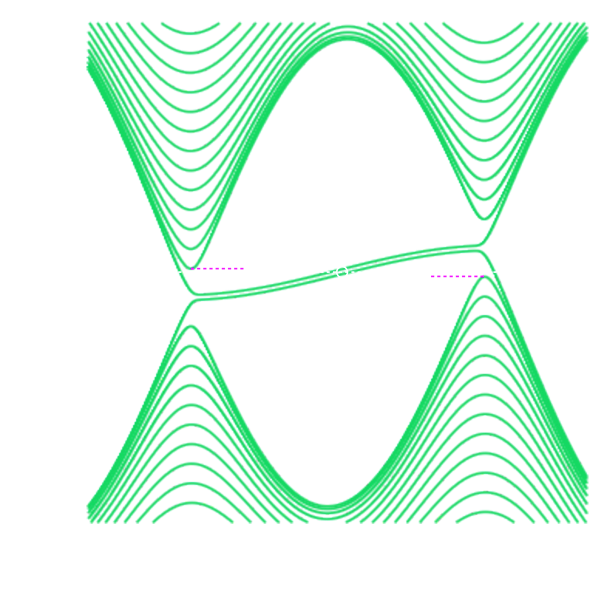
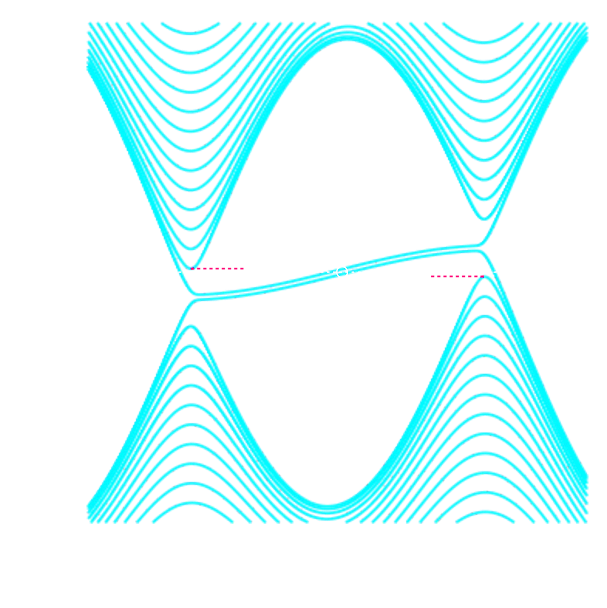
changes style, fixes typos

Changed region(s): [[0.1186, 0.0312, 0.9786, 0.875]]

diff --git a/research.html b/research.html
@@ -21,28 +21,26 @@
 
     <div class="row">    
         <div class="column"> 
-            <div class="picture-column" style="background-color: black;">
-                <img src="Images/Weyl.png"/>
-            </div>
-        </div>          
-        <div class="column">
-            <div class="text-column">
+            <div class="text-column" style='background-color: rgb(0, 59, 82);'>
                 <h2 style="font-size: 32px;">What is Weyl Semimetal?</h2>
                 <p class="column-text">
                     Weyl semimetal is a crystal with specific cunducting properties
                     that originate from quantum interactions between electrons and crystal lattice.
                     Those interactions influence electrons that take part in conductivity
-                    to become massless elementary particales called Weyl fermions.
+                    to become massless quasiparticles - Weyl fermions.
                     Conductivity with such particles has number of benefits that 
                     allow for apllications in spintronics and future computing.
                 </p>
-            </div>  
+            </div>
+        </div>          
+        <div class="column">
+            <div class="picture-column" style="background-color: black; margin-top: 20px;">
+                <img src="Images/Weyl.png"/>
+            </div>
+              
         </div>
     </div>
-
-    <div style='padding: 3pt'>
-                
-    </div>
+   
     
     <div style="margin-top: 40pt;">
         <h2>My Research in Physics</h2>
@@ -99,7 +97,7 @@
             <li class="publ">(2019) Observation of quantum topological Hall effect in the Weyl semimetal candidate HgSe / A.T. Lonchakov, S.B. Bobin, V.V. Deryushkin, V.N. Neverov // Journal of Physics: Condensed Matter. V. 31. –  405706 P.</li>
             <li class="publ">(2019) Nontrivial topology of bulk HgSe from the study of cyclotron effective mass, electron mobility and phase shift of Shubnikov–de Haas oscillations / S.B. Bobin, A.T. Lonchakov, V.V. Deryushkin, V.N. Neverov // Journal of Physics: Condensed Matter. V. 31. –  115701 – 115706 P.</li>
             <li class="publ">(2018) Peculiar behavior of magnetoresistance in HgSe single crystal with low electron concentration / Lonchakov, A. T., Bobin, S. B., Deryushkin, V. V., Okulov, V. I., Govorkova, T. E., & Neverov, V. N. // Applied Physics Letters, 112(8), 082101. </li>
-        </ul>
+        </ul>        
 
     </div>
 

diff --git a/objective_harmony.html b/objective_harmony.html
@@ -22,33 +22,33 @@
 
     <div class="row">    
         <div class="column"> 
-            <div class="picture-column" style="background-color: black;">
-                <img class='bordered_logo' src="Images/objective_harmony.png"/>
-                
-            </div>
-        </div>          
-        <div class="column">
             <div class="text-column">
                 <h2 style="font-size: 32px;">The Goal</h2>
                 <p class="column-text">
-                    The YouTube channel is dedicated towards
+                    The YouTube channel is about
                     exploring the origin of consonance and 
                     dissonance from psychophysiological perspective.
-                    I refer to it as hardcore music theory. The 
-                    goal is to came up with approaches and 
-                    software to controll tension in music by smart manipulation of 
-                    partials within a sound for new artistic effects.
-                    and break new ground in musical composition.
+                    I refer to it as fundamental music theory. The 
+                    goal is to come up with approaches and 
+                    software to control tension in music by smart manipulation of 
+                    partials of sound. That will allow for 
+                    new artistic effects and may break new ground in musical composition.
 
                 </p>
-            </div>  
+            </div>            
+        </div>   
+
+        <div class="column">
+            <div class="picture-column" style="background-color: black;">
+                <img class='bordered_logo' src="Images/objective_harmony.png"/>                
+            </div>
         </div>
     </div>
     
     <div style="margin-top: 40pt;">
-        <h2>h2</h2>
+        <h2>Dissonance Curves</h2>
         <p style="text-align:left;">
-            I have a YouTube channel in hardcore music theory. Will make page later.
+            Some text on specifics.
         </p>
     </div>
     

diff --git a/index.html b/index.html
@@ -22,20 +22,20 @@
 
     <div class="row">    
         <div class="column"> 
-            <div class="picture-column">
+            <div class="picture-column" style='background-color: rgb(48, 25, 70);'>
                 <img class="avatar" src="Images/Avatar.jpg" alt="A Photo of Me"/>
             </div>
         </div>          
         <div class="column">
-            <div class="text-column">
+            <div class="text-column" style='background-color: rgb(48, 25, 70);'>
                 <h2 style="font-size: 32px;">About me</h2>
                 <p class="column-text">
                     I'm a student in Craft Academy, on a way to becoming a junior developer.
                     I have a background in fundamental physics, particulary semiconductor research.
                     As a hobby I play electric guitar, piano and compose music. Recently I 
-                    released debut instrumental single that you can check out in Music tab
-                    And I have YouTube channel dedicated to hardcore music theory.
-                    Also I like to travel.
+                    released debut instrumental single that you can check out in Music tab.
+                    Also I have a YouTube channel dedicated to hardcore music theory.
+                    
                 </p>
             </div>  
         </div>

diff --git a/style.css b/style.css
@@ -47,6 +47,7 @@ a {
 
 .avatar {
     border-radius: 50%;
+    border: 3px solid rgb(255, 255, 255);
     height: 100%;
     width: auto;
     
